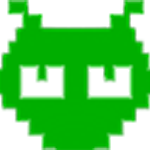
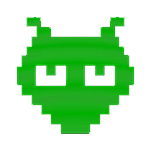
Add files via upload

diff --git a/styles.css b/styles.css
@@ -140,8 +140,8 @@ footer {
     animation: none;
 }
 .icon-img {
-    width: 32px;
-    height: 32px;
+    width: 36px;
+    height: 36px;
     image-rendering: pixelated;
     transition: all 0.3s ease;
 
@@ -150,5 +150,5 @@ footer {
 /* Efecto al pasar el mouse */
 .custom-icon:hover .icon-img {
     transform: scale(1.2) rotate(2deg);
-    filter: drop-shadow(0 0 6px #00ffff) brightness(150%);
+  ;
 }
